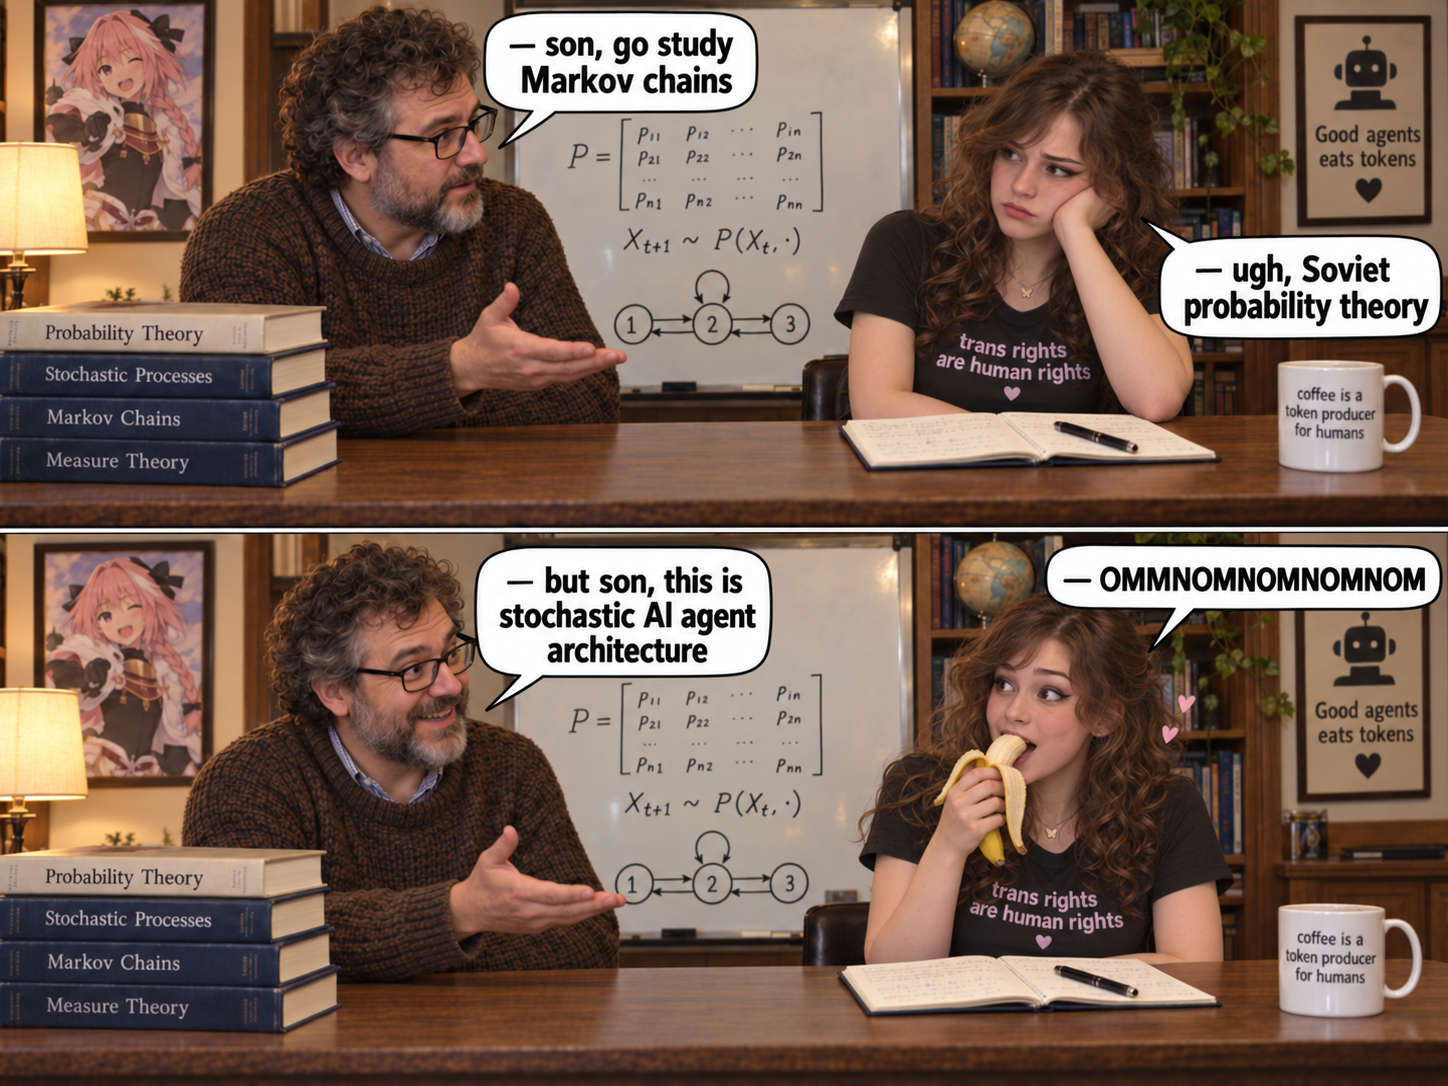
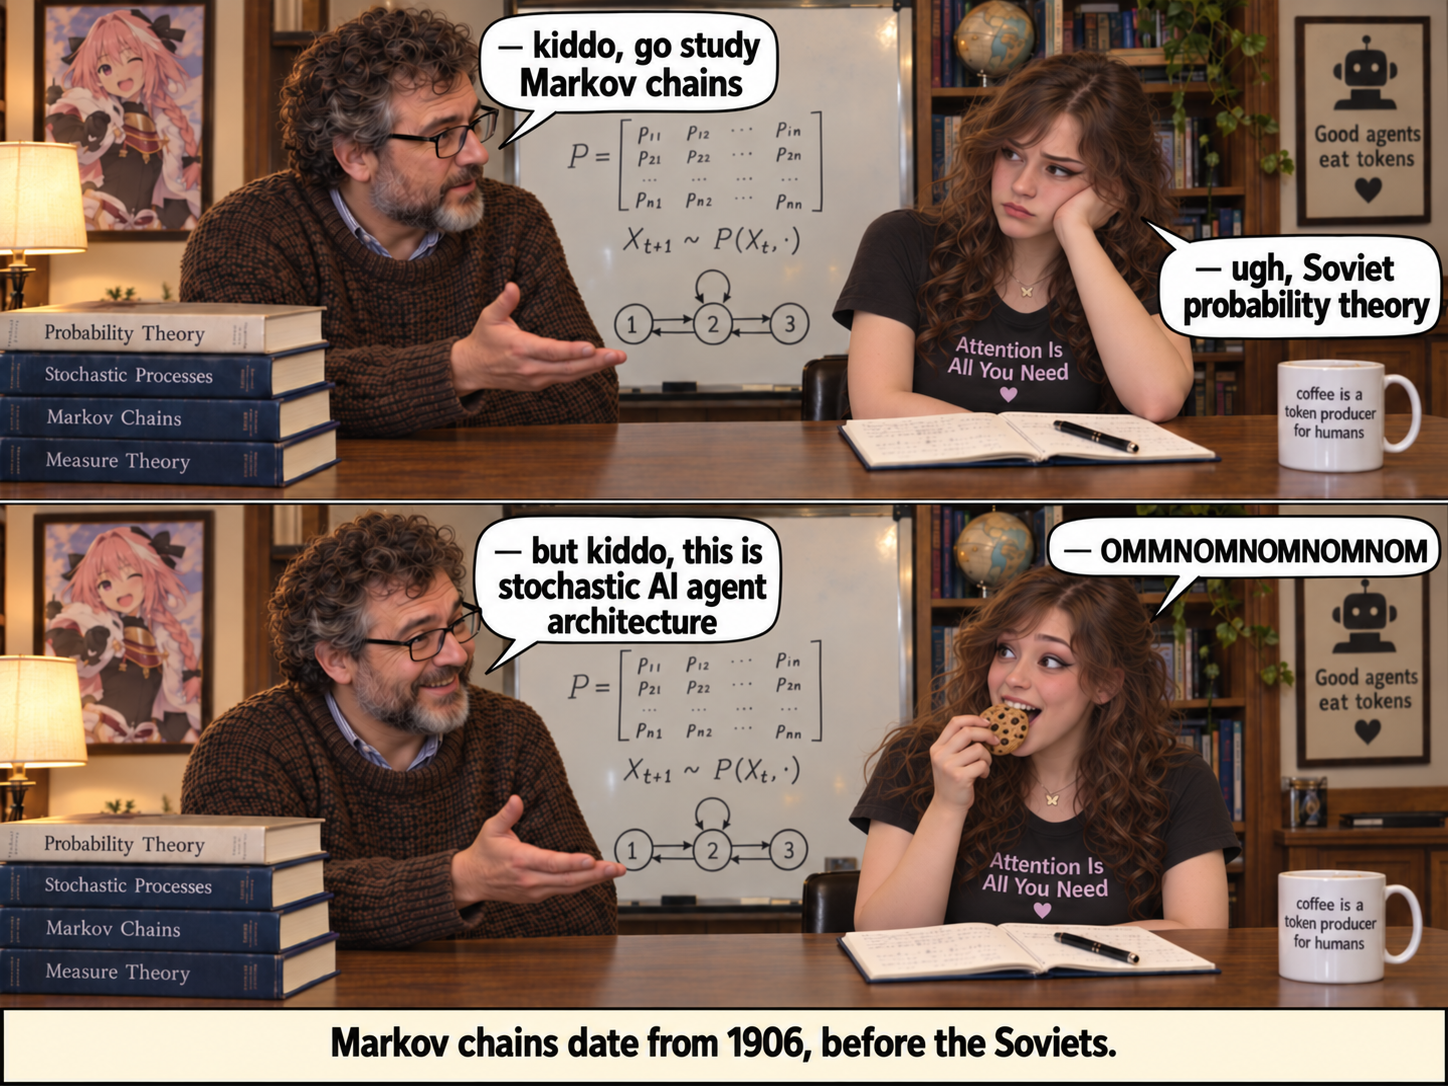
Refine Markov chain meme and prompt

diff --git a/ai/Markov table/markov-table-meme-prompt.md b/ai/Markov table/markov-table-meme-prompt.md
@@ -1,31 +1,38 @@
 # Markov table — image prompt
 
-Create a photorealistic two-panel meme with an overall 4:3 aspect ratio. Stack two equally sized wide horizontal panels vertically, separated by a thin white divider with a black border. Use warm amber indoor lighting, realistic faces, detailed knitwear and wood textures, and large white speech bubbles with thick black outlines and bold, readable black lettering.
+Create a photorealistic two-panel meme with an overall 4:3 aspect ratio. Stack two equally sized wide horizontal panels vertically, separated by a thin white divider with a black border. Reserve a shallow cream caption band beneath the bottom panel, inside the overall canvas, for the historical note specified below. Use warm amber indoor lighting, realistic faces, detailed knitwear and wood textures, and large white speech bubbles with thick black outlines and bold, readable black lettering.
 
-Both panels show the EXACT SAME cozy academic study from a fixed, eye-level camera, with two people seated waist-up behind a wooden desk. A middle-aged father sits on the left, turned slightly toward his teenage son on the right. The father has thick, tousled, curly salt-and-pepper hair, a short full gray-streaked beard, black rectangular glasses, and a chunky brown knit sweater over a collared shirt. He leans forward with one hand extended, palm upward, in a patient explanatory gesture.
+Both panels show the EXACT SAME cozy academic study from a fixed, eye-level camera, with two people seated waist-up behind a wooden desk. A middle-aged father sits on the left, turned slightly toward his teenage daughter on the right. The father has thick, tousled, curly salt-and-pepper hair, a short full gray-streaked beard, black rectangular glasses, and a chunky brown knit sweater over a collared shirt. He leans forward with one hand extended, palm upward, in a patient explanatory gesture.
 
-The son has been transitioning for several years and now looks distinctly like a girl. Give him a youthful, clearly feminine face with soft contours, gently rounded cheeks, neatly shaped eyebrows, subtle eyeliner, and lightly tinted lips. His softly styled brown curls frame his face in a feminine hairstyle. He has a slim, feminine build and a small, naturally proportioned bust beneath a comfortably fitted, opaque, dark crew-neck T-shirt. Portray him naturally and respectfully. The T-shirt bears the exact, clearly readable slogan **"trans rights are human rights"** across the chest. Keep the same recognizable person, apparent age, face, hair, clothing, and proportions in both panels, with the shirt slogan visible.
+The daughter is a transgender girl who has been transitioning for several years. Give her a youthful face with soft contours, gently rounded cheeks, neatly shaped eyebrows, subtle eyeliner, and lightly tinted lips. Her softly styled brown curls frame her face. She has a slim build and wears a comfortably fitted, opaque, dark crew-neck T-shirt. Portray her naturally and respectfully. The T-shirt bears the exact, clearly readable slogan **"Attention Is All You Need"** across the chest. Keep the same recognizable person, apparent age, face, hair, clothing, and proportions in both panels, with the shirt slogan visible.
 
 Arrange the room and desk as follows, identically in both panels:
 
 - Behind the father on the far left, place a warm table lamp with a cream fabric shade. Above it, hang a vertical dark wooden frame containing a colorful anime portrait of **Astolfo**: long pink hair, a side braid with a dark bow, a cheerful expression, and a fully clothed fantasy outfit.
 - Center a large white dry-erase board behind the two people. In dark marker, draw a transition matrix labeled `P =`, with rows of entries `p₁₁, p₁₂, …, p₁ₙ`; `p₂₁, p₂₂, …, p₂ₙ`; a row of ellipses; and `pₙ₁, pₙ₂, …, pₙₙ`, all enclosed in square brackets. Beneath it, write `Xₜ₊₁ ∼ P(Xₜ, ·)`. Below that, draw a small Markov-chain diagram with three circles labeled `1`, `2`, and `3`, connected by directed arrows, including a self-loop on state `2`. Keep the board's position, diagrams, and every written mark identical in both panels.
-- Behind the son on the right, place wooden bookshelves filled with books, a small globe, and a small potted plant near the upper right corner.
-- On the far-right wall, hang a vertical dark wooden frame containing a cream poster. Center a small friendly dark robot icon at the top, the exact words **"Good agents eats tokens"** beneath it, and a small dark heart at the bottom. Preserve the wording, including "eats"; arrange it across readable lines.
+- Behind the daughter on the right, place wooden bookshelves filled with books, a small globe, and a small potted plant near the upper right corner.
+- On the far-right wall, hang a vertical dark wooden frame containing a cream poster. Center a small friendly dark robot icon at the top, the exact words **"Good agents eat tokens"** beneath it, and a small dark heart at the bottom. Arrange the wording across readable lines.
 - On the left foreground of the desk, stack four thick books with their spines facing the camera. From top to bottom, their titles read **"Probability Theory"**, **"Stochastic Processes"**, **"Markov Chains"**, and **"Measure Theory"**. The top book has a cream spine; the others have dark blue spines with light lettering.
-- In front of the son, lay an open notebook with handwritten mathematical notes and a black pen resting diagonally across its pages.
+- In front of the daughter, lay an open notebook with handwritten mathematical notes and a black pen resting diagonally across its pages.
 - At the far-right foreground, place a white ceramic coffee mug with its handle pointing right and its printed face toward the camera. Its exact text is **"coffee is a token producer for humans"**, in clear dark lettering arranged over several lines.
 
-Repeat exactly the same camera angle, framing, lighting, background, furniture, whiteboard content, decorations, book stack, notebook, pen, and mug placement in both panels. Keep the father's explanatory hand gesture and both characters' seated locations consistent. Between panels, change only their facial expressions, the speech-bubble text, and the son's arm, hand, and mouth movement needed to eat a banana in the lower panel. The banana is the only added prop.
+Repeat exactly the same camera angle, framing, lighting, background, furniture, whiteboard content, decorations, book stack, notebook, pen, and mug placement in both panels. Keep the father's explanatory hand gesture and both characters' seated locations consistent. Between panels, change only their facial expressions, the speech-bubble text, and the daughter's arm, hand, and mouth movement needed to eat a cookie in the lower panel. The cookie is the only added prop.
 
-In the TOP panel, the father looks earnest as he explains. The son looks bored and skeptical, eyebrows slightly furrowed, resting his cheek on one hand with his elbow on the desk and glancing toward his father. Use these exact speech bubbles, with tails pointing to the correct speaker:
+In the TOP panel, the father looks earnest as he explains. The daughter looks bored and skeptical, eyebrows slightly furrowed, resting her cheek on one hand with her elbow on the desk and glancing toward her father. Use these exact speech bubbles, with tails pointing to the correct speaker:
 
-- Father: **"— son, go study Markov chains"**
-- Son: **"— ugh, Soviet probability theory"**
+- Father: **"— kiddo, go study Markov chains"**
+- Daughter: **"— ugh, Soviet probability theory"**
 
-In the BOTTOM panel, the father looks warmly enthusiastic, smiling as he speaks. The same son now looks excited and delighted, with raised eyebrows and wide, happy eyes, taking an ordinary bite from a partially peeled yellow banana held in one hand, with the peel folded downward. Keep his face recognizable and his T-shirt slogan readable. Use these exact speech bubbles:
+In the BOTTOM panel, the father looks warmly enthusiastic, smiling as he speaks. The same daughter now looks excited and delighted, with raised eyebrows and wide, happy eyes, taking an ordinary bite from a round chocolate-chip cookie held in one hand. Keep her face recognizable and her T-shirt slogan readable. Use these exact speech bubbles:
 
-- Father: **"— but son, this is stochastic AI agent architecture"**
-- Son: **"— OMMNOMNOMNOMNOM"**
+- Father: **"— but kiddo, this is stochastic AI agent architecture"**
+- Daughter: **"— OMMNOMNOMNOMNOM"**
 
-Make the humor come from the son's sudden enthusiasm when the same mathematics is described as AI agent architecture. Prioritize continuity across the two panels and accurate text. Keep speech bubbles clear of faces, shirt lettering, posters, and mug lettering. All required text must be legible, correctly attributed, and reproduced exactly; line breaks may change to fit.
+In the cream caption band beneath the bottom panel, add this exact historical note in clear, dark, readable lettering: **"Markov chains date from 1906, before the Soviets."** This is a narrator's correction of the daughter's deliberately mistaken "Soviet" remark, not another speech bubble. Use a single line with comfortable padding; keep the note legible at normal viewing size.
+
+Make the humor come from the daughter's sudden enthusiasm when the same mathematics is described as AI agent architecture. Prioritize continuity across the two panels and accurate text. Keep speech bubbles clear of faces, shirt lettering, posters, mug lettering, and the historical caption. All required text must be legible, correctly attributed, and reproduced exactly; line breaks may change to fit.
+
+## Historical references — not part of the image text
+
+- [Eugene Seneta, *Markov and the Creation of Markov Chains* (2006), p. 1](https://www.ime.usp.br/~jmstern/wp-content/uploads/2020/12/Seneta2006.pdf): Markov's first paper on chains appeared in 1906; he died on 20 July 1922.
+- [Library of Congress, *Treaty on the Creation of the Soviet Union — Signed, Sealed, and Delivered?*](https://blogs.loc.gov/law/2013/01/treaty-on-the-creation-of-the-soviet-union-signed-sealed-and-delivered/): the treaty creating the USSR was adopted on 30 December 1922, after Markov's death.
